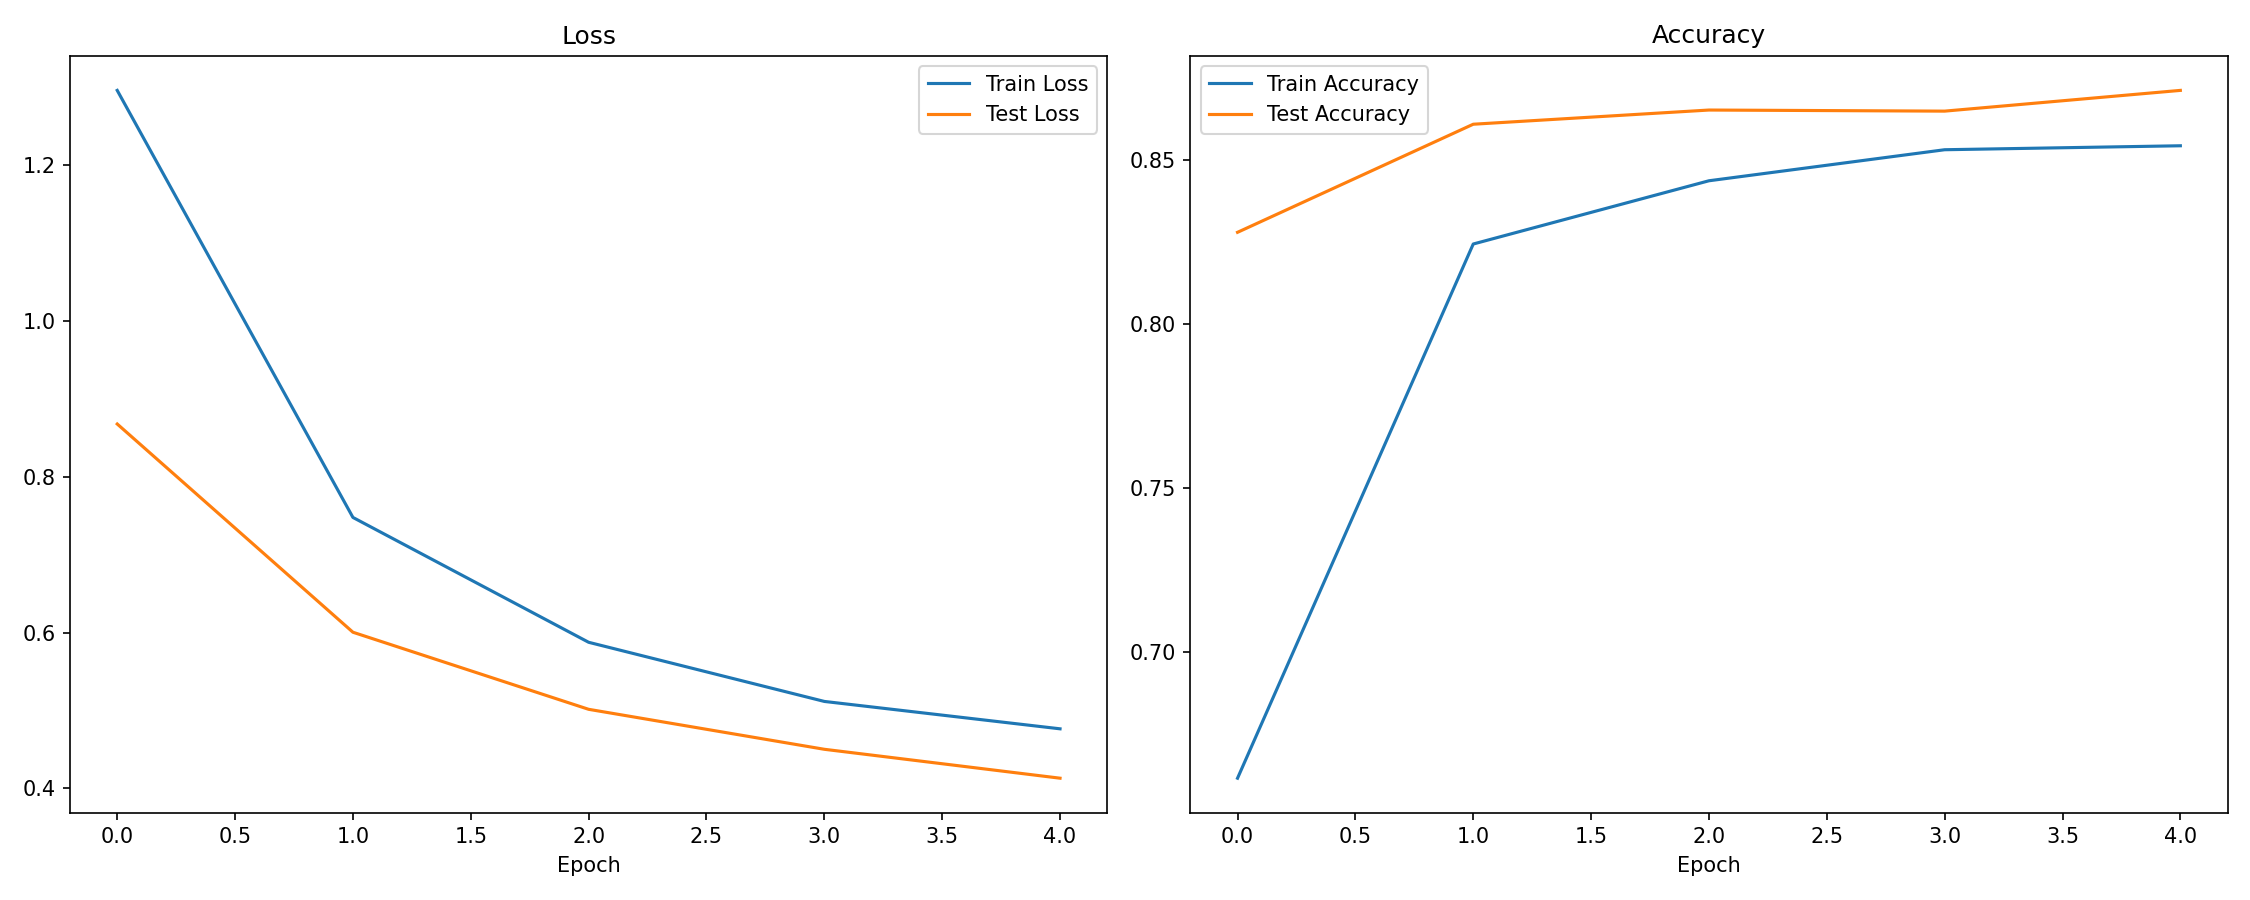
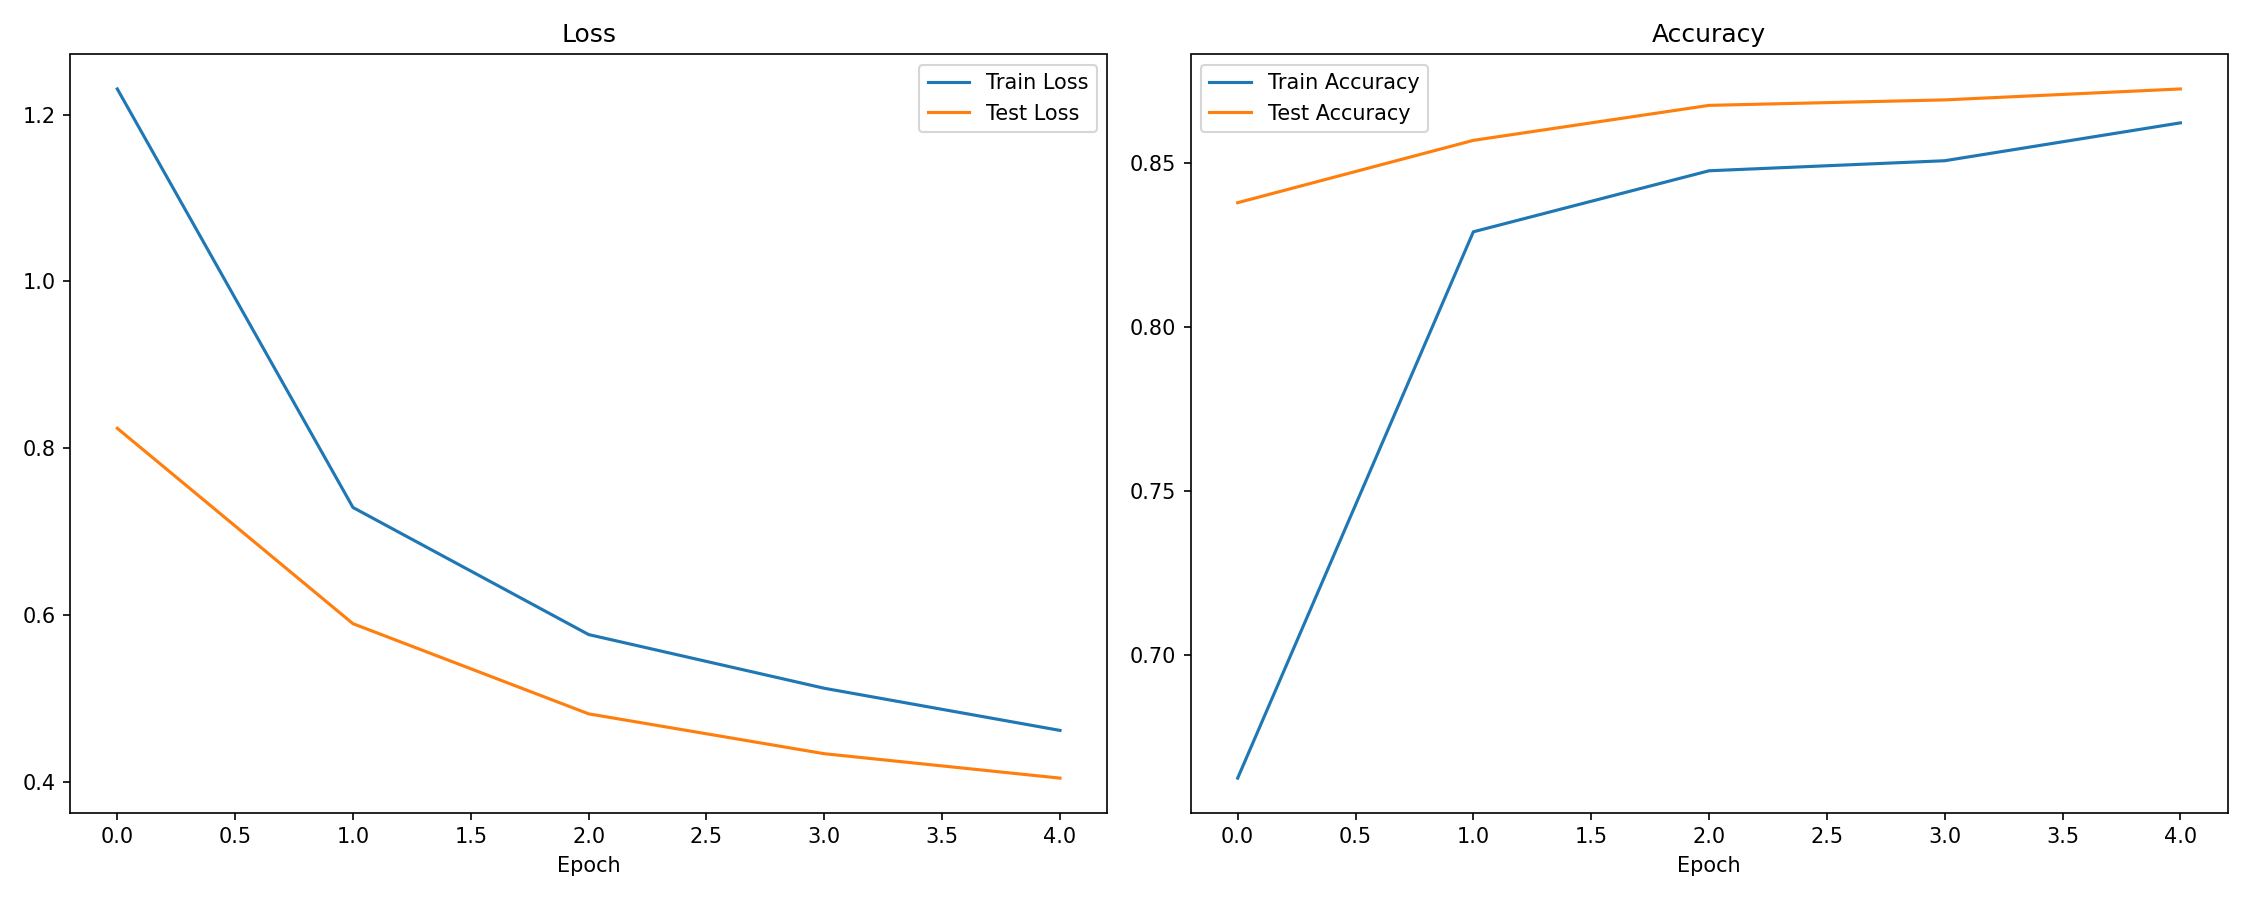
Verify refactored pipeline end-to-end, add prediction demo image

diff --git a/scripts/make_prediction_demo.py b/scripts/make_prediction_demo.py
@@ -1,0 +1,68 @@
+"""Generate a grid of real model predictions on sample images for the README.
+
+Run after training (needs results/model.pth):
+    python scripts/make_prediction_demo.py
+"""
+
+from __future__ import annotations
+
+from pathlib import Path
+
+import matplotlib.pyplot as plt
+import torch
+from PIL import Image
+
+from scene_classifier.data import build_transforms
+from scene_classifier.model import build_model
+from scene_classifier.utils import get_device, load_checkpoint
+
+CHECKPOINT = Path("results/model.pth")
+EXAMPLES_DIR = Path("assets/examples")
+OUTPUT = Path("assets/prediction_examples.png")
+CLASS_NAMES = ["buildings", "forest", "glacier", "mountain", "sea", "street"]
+
+
+def main() -> None:
+    device = get_device()
+
+    model, weights = build_model(num_classes=len(CLASS_NAMES))
+    model = load_checkpoint(model, CHECKPOINT, map_location=str(device))
+    model.to(device)
+    model.eval()
+
+    transform = build_transforms(weights)
+
+    image_paths = sorted(EXAMPLES_DIR.glob("*.jpg"))
+    if not image_paths:
+        raise FileNotFoundError(f"No example images found in {EXAMPLES_DIR}")
+
+    n = len(image_paths)
+    fig, axes = plt.subplots(1, n, figsize=(5 * n, 5))
+    if n == 1:
+        axes = [axes]
+
+    for ax, path in zip(axes, image_paths):
+        image = Image.open(path).convert("RGB")
+        input_tensor = transform(image).unsqueeze(0).to(device)
+        with torch.inference_mode():
+            logits = model(input_tensor)
+            probs = torch.softmax(logits, dim=1)
+            pred_idx = int(torch.argmax(probs, dim=1).item())
+            confidence = float(probs.max().item())
+
+        ax.imshow(image)
+        ax.axis("off")
+        ax.set_title(f"Pred: {CLASS_NAMES[pred_idx]} ({confidence:.1%})", fontsize=12)
+
+    fig.suptitle(
+        "Real predictions from results/model.pth on assets/examples/ photos",
+        fontsize=12,
+    )
+    fig.tight_layout()
+    OUTPUT.parent.mkdir(parents=True, exist_ok=True)
+    fig.savefig(OUTPUT, dpi=100, bbox_inches="tight")
+    print(f"Saved {OUTPUT}")
+
+
+if __name__ == "__main__":
+    main()

diff --git a/README.md b/README.md
@@ -31,6 +31,18 @@ systematically confusing two similar classes (e.g. `sea` vs. `glacier`).
 Run `python -m scene_classifier.train` end-to-end to generate that report
 for the current model.
 
+### Example predictions
+
+![Example predictions](assets/prediction_examples.png)
+
+Real inferences from `results/model.pth` on the three personal photos in
+`assets/examples/` — actual model output, not mockups. Regenerate after
+training with:
+
+```bash
+python scripts/make_prediction_demo.py
+```
+
 ## Dataset
 
 The [Intel Image Classification dataset](https://www.kaggle.com/datasets/puneet6060/intel-image-classification)
